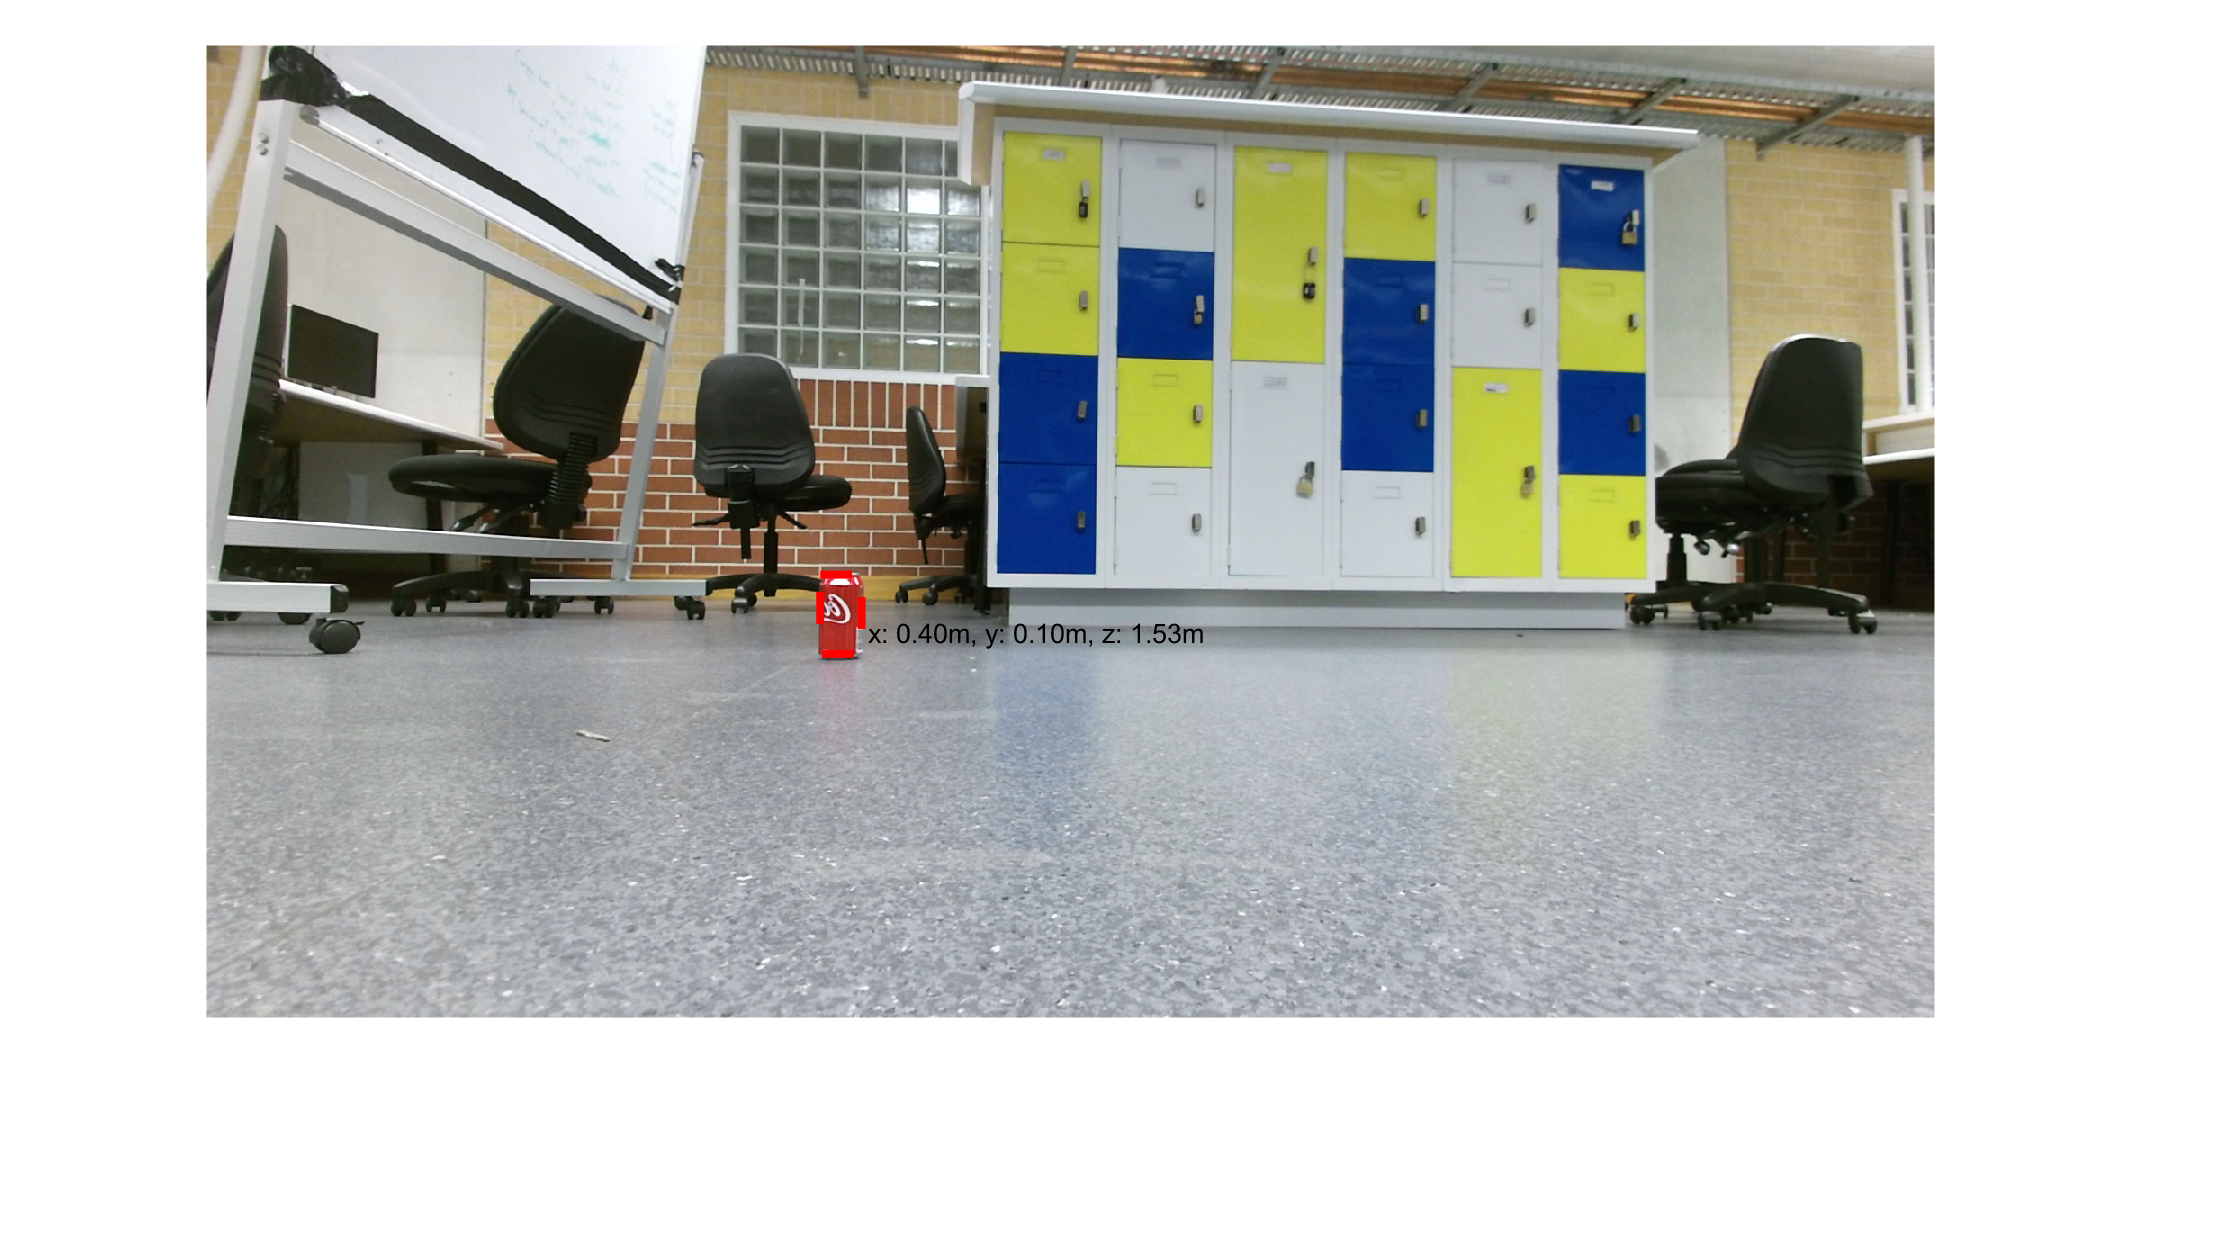
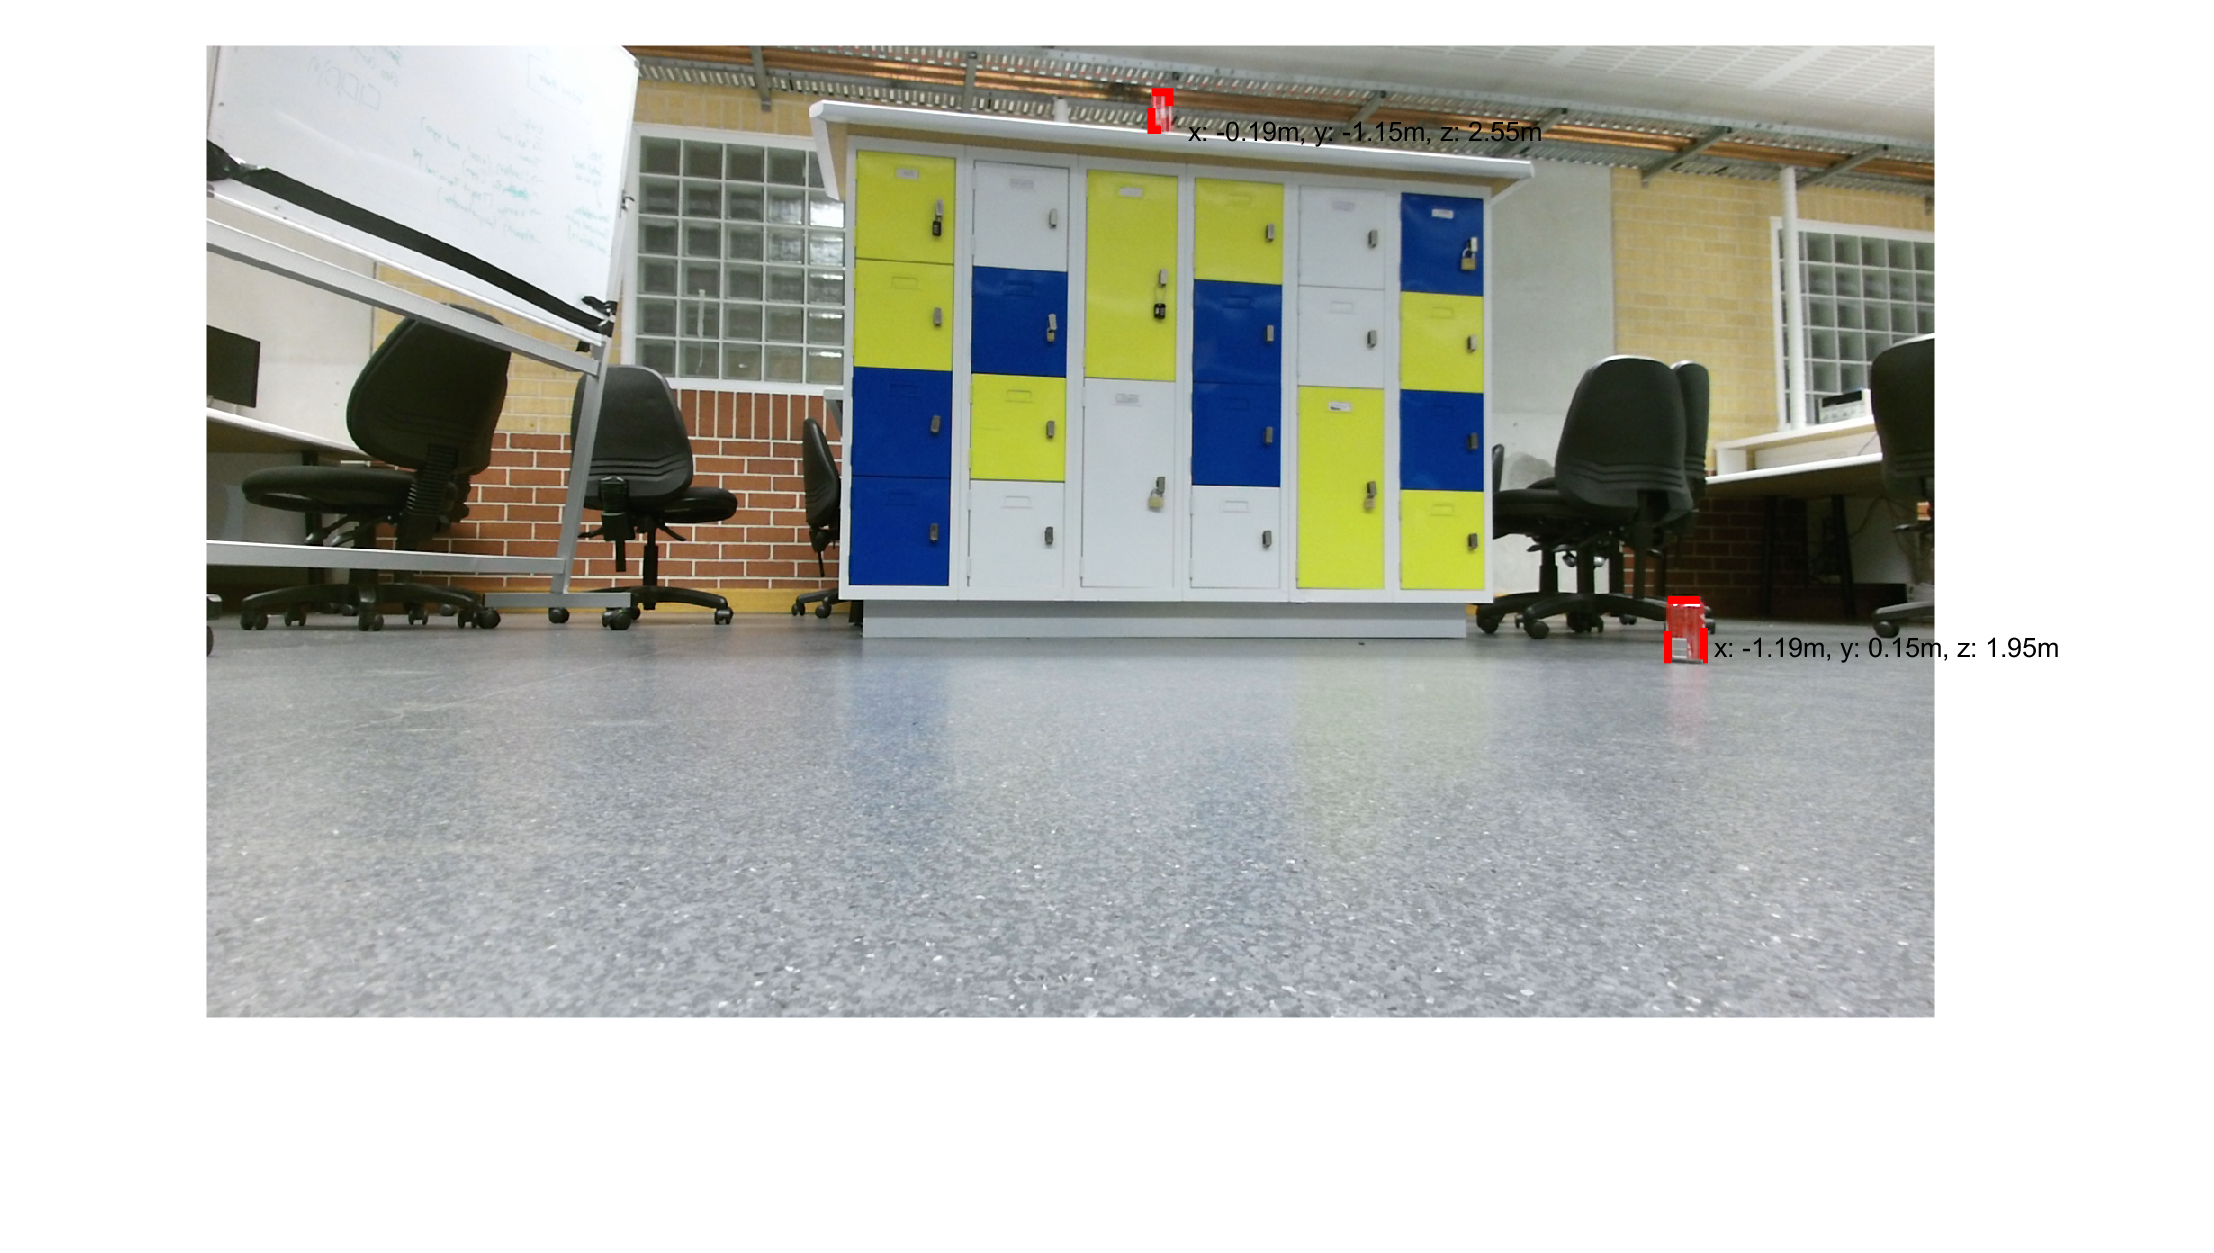
Changed canDetection to have more plots

diff --git a/canFinding/Newest.m b/canFinding/Newest.m
@@ -59,7 +59,9 @@ hBlob.MaximumBlobArea = 100000;
 stats = [regionprops(cansBinaryImage,'Centroid', 'area', 'BoundingBox', 'PixelIdxList')];
 figure(1);
 hold on;
-% imshow(not(cansBinaryImage));
+imshow(not(cansBinaryImage));
+figure(2);
+hold on;
 imshow(colorImage);
 
 % Increment for creating an array of can positions
@@ -73,6 +75,9 @@ for ii = 1:length(stats)
         colorImage1=uint8(ones(1080,1920,3).*255);
         
         % Plot red outlines of cans
+        figure(1);
+        rectangle('Position', stats(ii).BoundingBox,'Linewidth', 3, 'EdgeColor', 'r', 'LineStyle', '--');
+        figure(2);
         rectangle('Position', stats(ii).BoundingBox,'Linewidth', 3, 'EdgeColor', 'r', 'LineStyle', '--');
         
         % Change colorImage1 pixels that are part of the can from white to
@@ -95,8 +100,12 @@ for ii = 1:length(stats)
         temp=ptCloud.Location(:,:,3);temp=temp(k);temp(isnan(temp)) = []; objectPos(3,iii) = mean(temp);
         
         % Display text next to the cans to show us their positions
+        figure(1);
+        text(round(stats(ii).Centroid(1))+30,round(stats(ii).Centroid(2))+20, sprintf('x: %.2fm, y: %.2fm, z: %.2fm',objectPos(1,iii),objectPos(2,iii),objectPos(3,iii)));
+        figure(2);
         text(round(stats(ii).Centroid(1))+30,round(stats(ii).Centroid(2))+20, sprintf('x: %.2fm, y: %.2fm, z: %.2fm',objectPos(1,iii),objectPos(2,iii),objectPos(3,iii)));
     end
 end
-
+figure(3);
+imshow(depthImage.*10);
 
